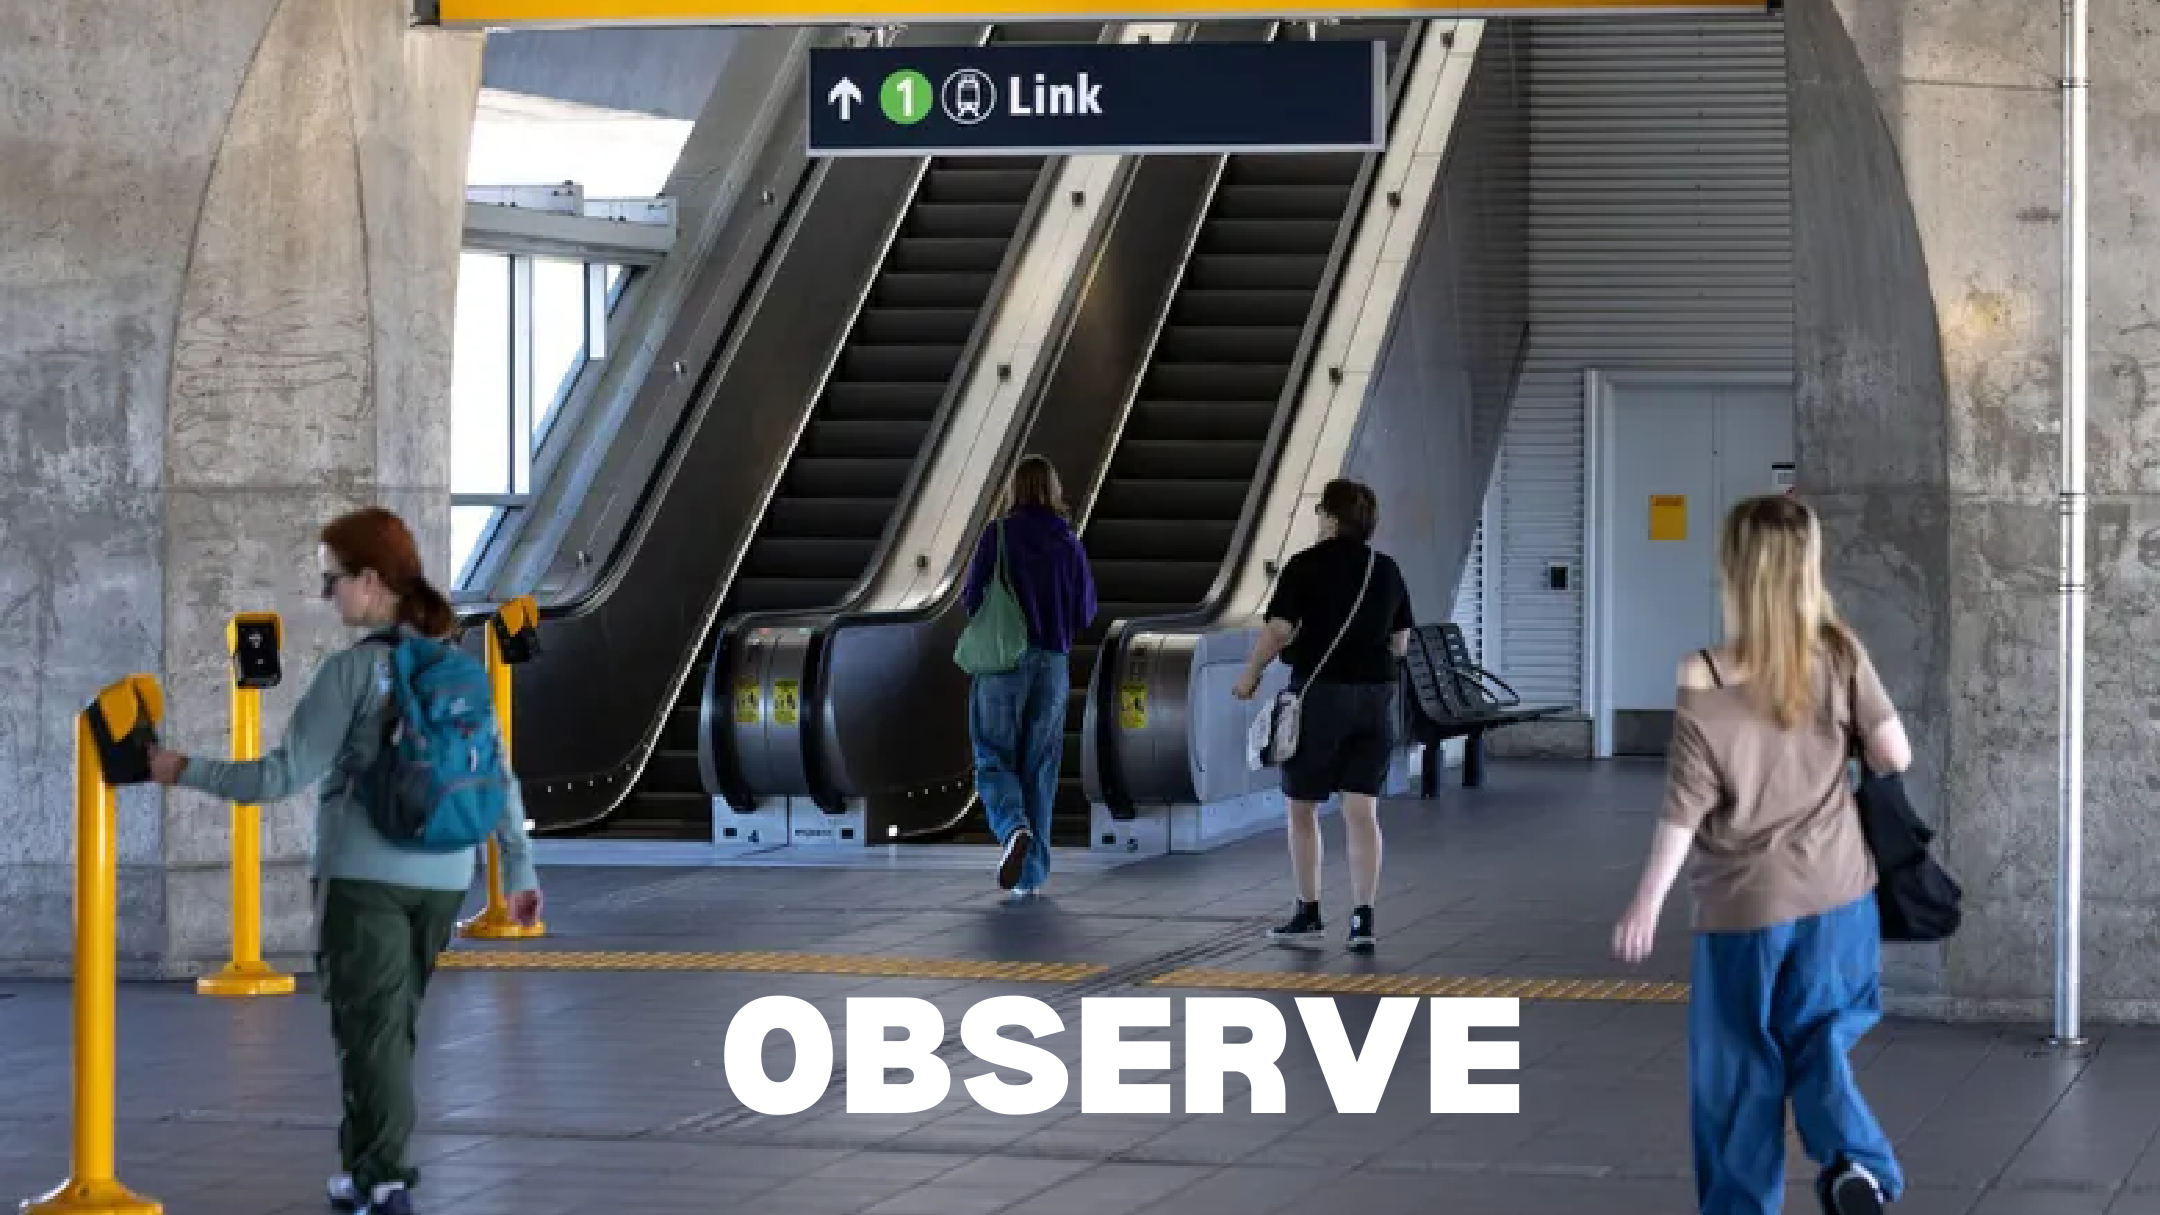
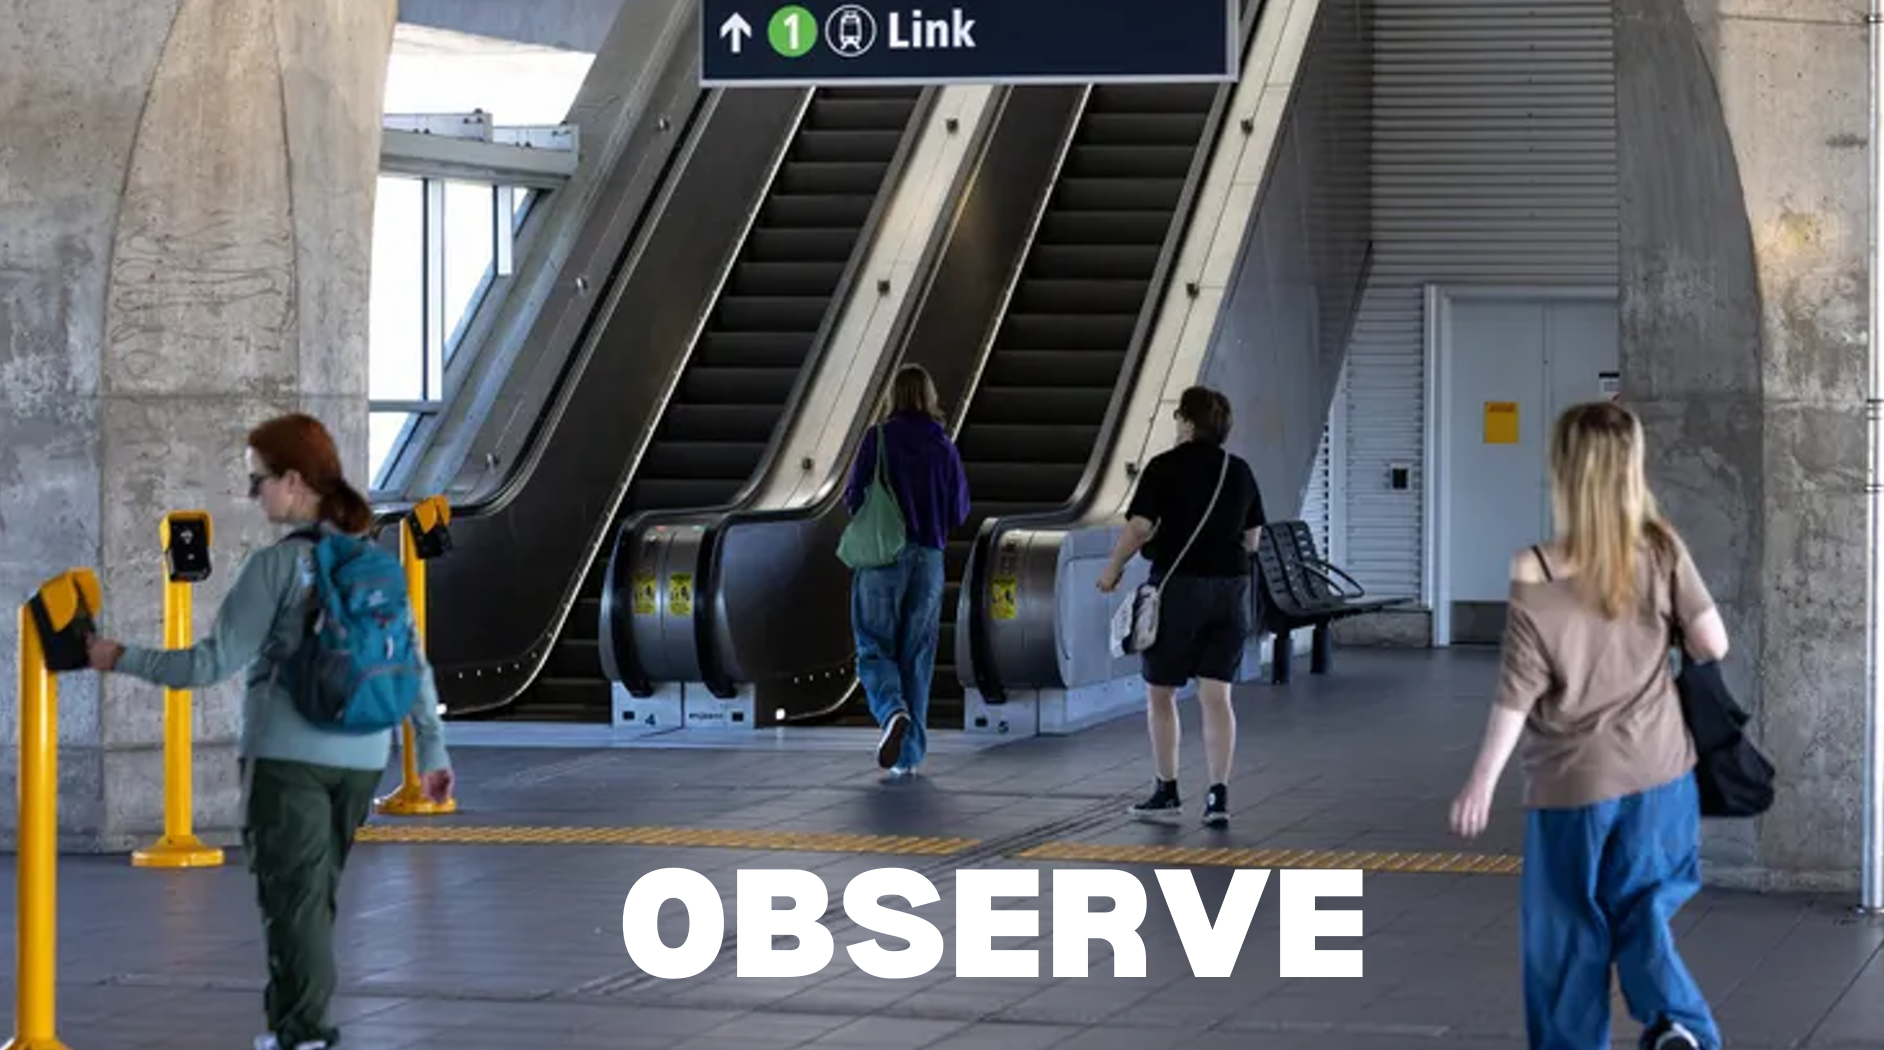
Add workshop header photo and original presentation images

diff --git a/_sass/_style.scss b/_sass/_style.scss
@@ -246,6 +246,11 @@ nav a.internal-link { background: transparent; border-bottom: 0; padding: 0; }
   figcaption { margin-top: 0.4em; font-size: 0.8em; color: $color-subtext; }
 }
 
+.workshop-slide-example {
+  margin: 1.5em 0;
+  figcaption { margin-top: 0.4em; font-size: 0.8em; color: $color-subtext; }
+}
+
 // A smaller desktop scale while retaining the mobile layout.
 @media (min-width: 900px) {
   body {

diff --git a/_notes/designing-a-design-thinking-workshop.md b/_notes/designing-a-design-thinking-workshop.md
@@ -1,6 +1,7 @@
 ---
 title: "Designing Civic Solutions: A Design Thinking Workshop"
 display_date: 2026-07-13
+image: assets/design-thinking-workshop-header.jpg
 labels:
   - Civic Tech Reflections
 description: A resource for designing a hands-on workshop on human-centered design
@@ -53,6 +54,11 @@ I wanted the presentation to serve as a starting point, not a comprehensive lect
   </figure>
 </div>
 
+<figure class="workshop-slide-example">
+  <img src="{{ '/assets/design-thinking-engage.png' | relative_url }}" alt="A presentation slide showing two people talking on a bus, with the single word ENGAGE." loading="lazy">
+  <figcaption>Another minimal slide from the presentation: “Engage.”</figcaption>
+</figure>
+
 ### 4. Get people moving and making things
 
 The presentation was only one part of the session. A workshop should be more than a presentation!
@@ -62,8 +68,6 @@ To put the concepts into practice, we did a **"How Might We" exercise** using fo
 Participants split into groups and spent about 5–7 minutes at each challenge, developing "How Might We" questions and writing them on sticky notes. The catch? **They couldn't repeat a question that had already been shared.** This encouraged participants to consider different stakeholders and explore the many ways a single challenge could be approached.
 
 Once every group had rotated through all four challenges, we came back together to read out the questions.
-
-*[Image: How Might We prompts, sticky notes, or participants working in groups]*
 
 ## Workshop Presentation
 
